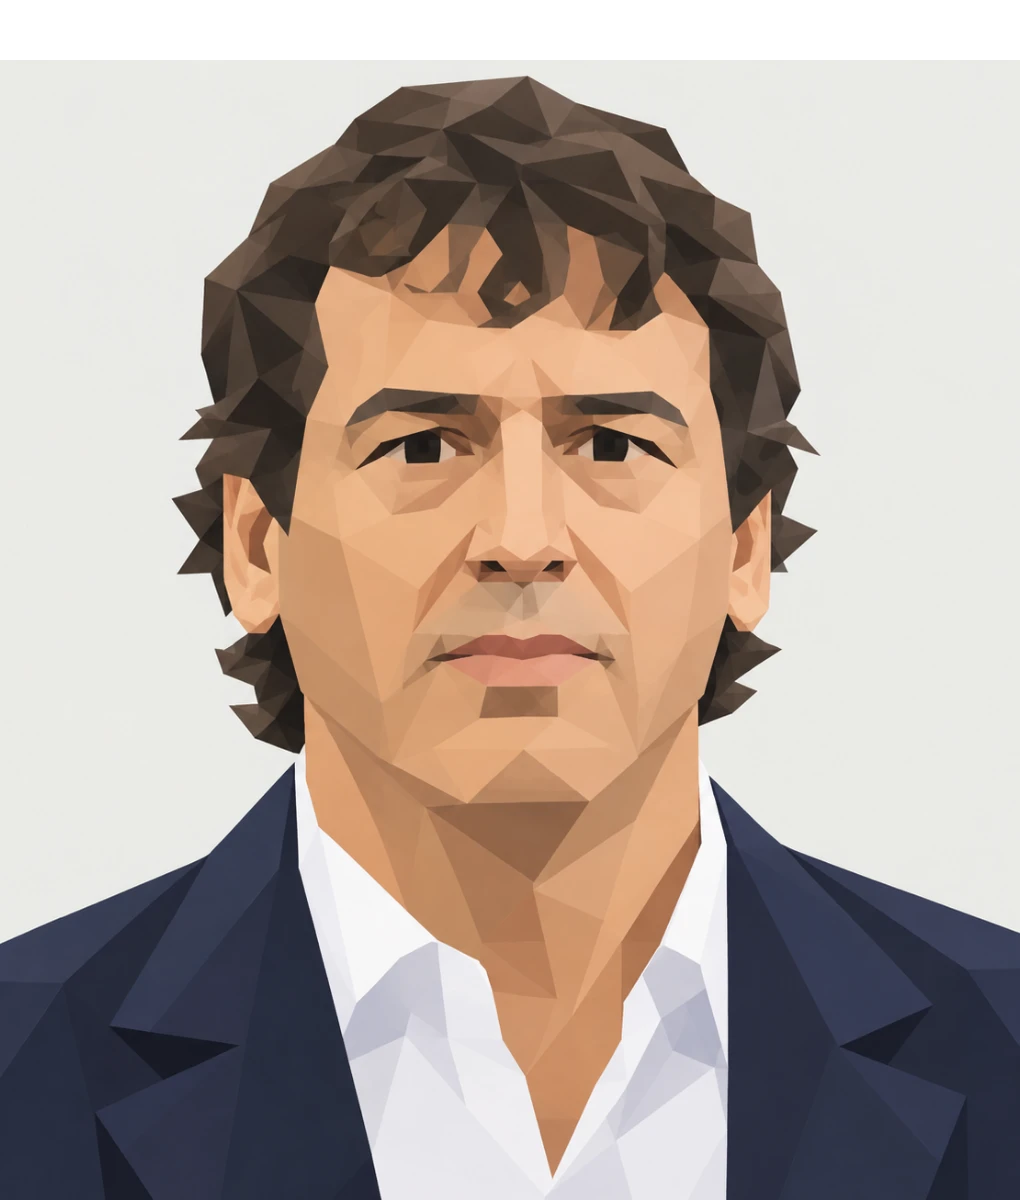
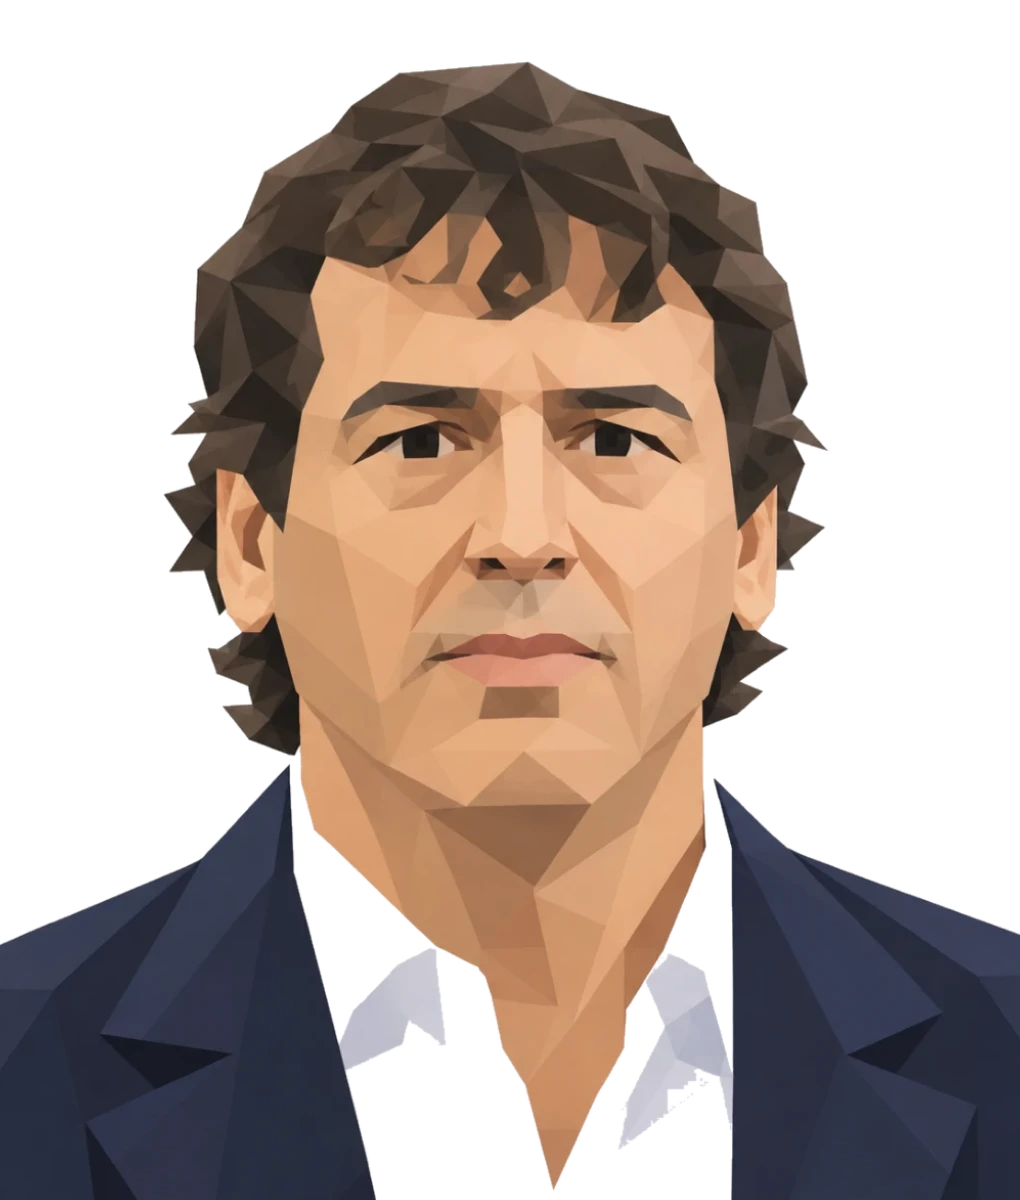
Los tres retratos de hoy llevaban el fondo incrustado
Los subi con un fondo claro solido dentro de la imagen, asi que en la carta
salia un recuadro gris sobre el fondo oscuro. El de la socia era peor: tenia
el damero de transparencia rasterizado como pixeles de verdad.

No lo vi porque estaba midiendo el bbox del canal alfa, y con el fondo opaco
ese bbox es el lienzo entero: daba 0/60/1020/1200 (o sea "encuadre perfecto")
en las tres. La medida buena es el % de pixeles opacos: los 19 retratos
viejos estan entre 54 y 73%, y estos tres estaban al 90-95%.

Fondo quitado por contigüidad desde el borde, tomando el color solo de las
esquinas de ARRIBA: al muestrear el marco entero, el azul marino del traje
del Escudero (que sangra hasta el borde) se tomaba por fondo y le borraba la
chaqueta.

Como ahora si hay alfa, normalize ha podido reencuadrar de verdad. La socia
pasa de (26,60,994,1198) a (1,60,1019,1200): se acabaron sus margenes
laterales.

diff --git a/src/data/coloresRetrato.ts b/src/data/coloresRetrato.ts
@@ -12,19 +12,19 @@ export const COLOR_RETRATO: Record<string, string> = {
   'feminista.webp': '#36292e',
   'fiscal.webp': '#232124',
   'guru.webp': '#372525',
-  'hermano.webp': '#2d2e33',
+  'hermano.webp': '#17181e',
   'independentista.webp': '#26262c',
   'jefecomunicacion.webp': '#0d101e',
   'juez.webp': '#111010',
   'ministraincompetente.webp': '#42444c',
   'ministrocorrupto.webp': '#2d292d',
-  'ministrolameculos.webp': '#262832',
+  'ministrolameculos.webp': '#272932',
   'mopongo.webp': '#3b2123',
   'oposicionsuave.webp': '#1f232f',
   'periodista.webp': '#0b090b',
   'presi.webp': '#2f2932',
   'presidentaregional.webp': '#522327',
   'primeradama.webp': '#5c4e44',
-  'sociaincomoda.webp': '#312834',
+  'sociaincomoda.webp': '#1f1223',
   'vicepresi.webp': '#615b54',
 }
